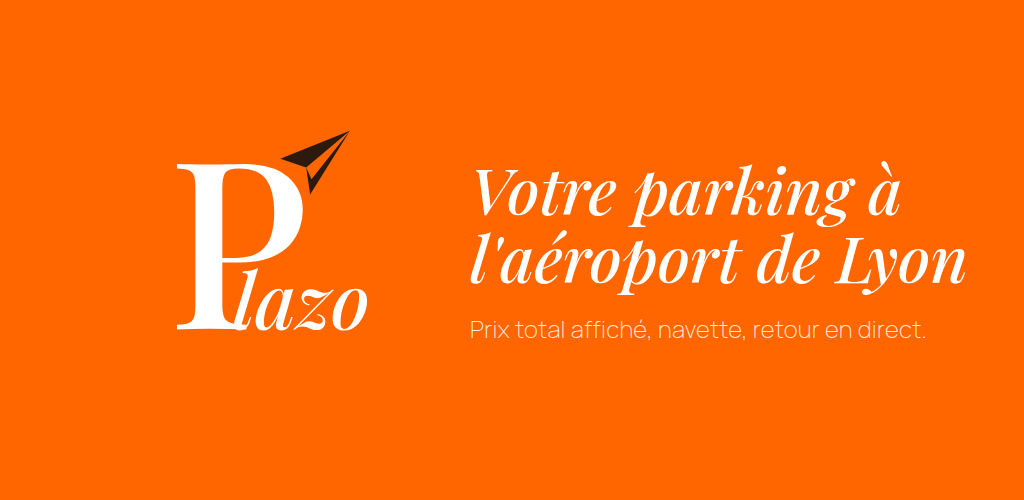
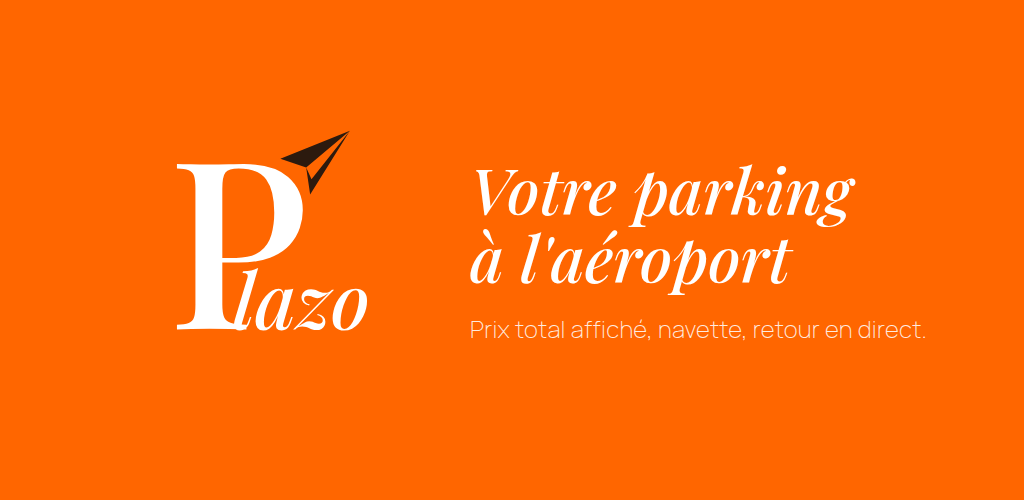
Play feature graphic: « Votre parking à l'aéroport » (no city)
Claude-Session: https://claude.ai/code/session_012FzNPuRPbrourFcqtQaMsX

Changed region(s): [[0.4375, 0.45, 0.9375, 0.6], [0.8438, 0.33, 0.875, 0.45]]

diff --git a/mobile/fiches-stores.md b/mobile/fiches-stores.md
@@ -724,7 +724,7 @@ Conseils de capture :
 - Éviter le badge « DÉMO » et tout signe du mode test de Stripe.
 
 Images de présentation (`brand/stores/`, 11/10/2026), deux variantes par app, à choisir par Joanny :
-- **Plazo A** (`plazo-feature-A.png`) : fond orange `#FF6600`, le P et l'avion de l'icône, « Votre parking à l'aéroport de Lyon »
+- **Plazo A** (`plazo-feature-A.png`) : fond orange `#FF6600`, le P et l'avion de l'icône, « Votre parking à l'aéroport »
   en Playfair italique blanc, « Prix total affiché, navette, retour en direct. » en Manrope.
 - **Plazo B** (`plazo-feature-B.png`) : le fond gris clair `#ECECEE` de l'app, la tuile de l'icône, surtitre « Parking aéroport ·
   Lyon Saint-Exupéry », « Votre parking, du dépôt au retour. » en Playfair italique brun, pilule orange « Prix total affiché ».
